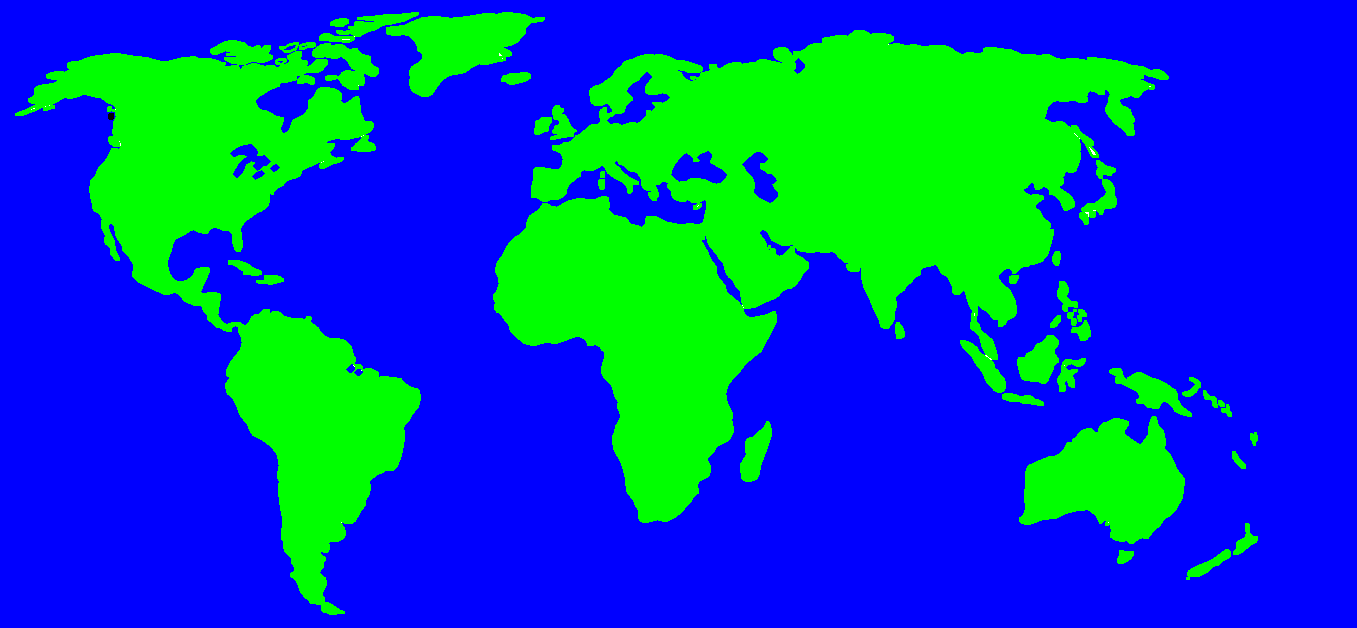
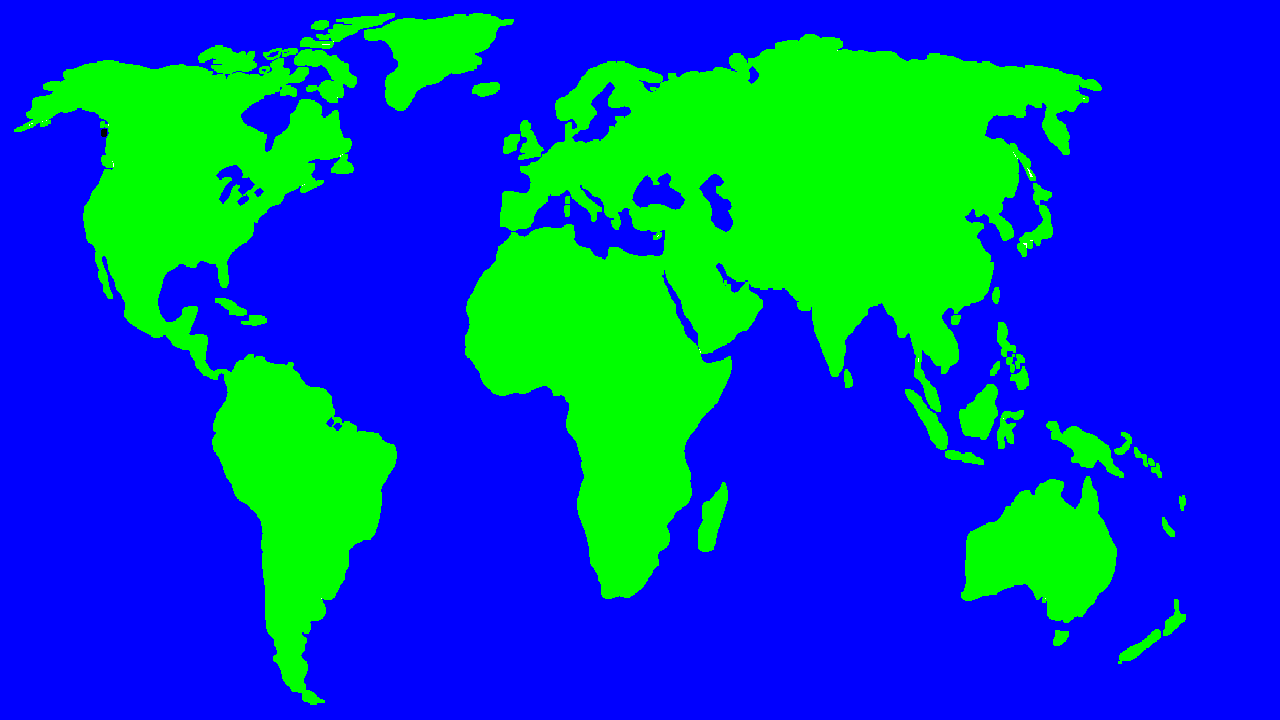
Drawable

diff --git a/Source/Application.cpp b/Source/Application.cpp
@@ -1,0 +1,57 @@
+#include "Application.h"
+
+Application::Application()
+:   m_window    ({WIDTH, HEIGHT}, "Empire")
+,   m_pixels    (WIDTH * HEIGHT)
+{
+    cellForEach([&](int x, int y)
+    {
+        auto& p     = m_pixels[getIndex(x, y)];
+        p.position  = {(float)x, (float)y};
+        p.color     = sf::Color::Red;
+    });
+}
+
+void Application::run()
+{
+    while (m_window.isOpen())
+    {
+        m_window.clear();
+
+        update();
+
+        m_world.draw(m_window);
+        //m_window.draw(m_pixels.data(), m_pixels.size(), sf::Points);
+
+        m_window.display();
+        pollEvents();
+        m_frameCount++;
+    }
+}
+
+int Application::getIndex(int x, int y)
+{
+    return y * WIDTH + x;
+}
+
+void Application::pollEvents()
+{
+    sf::Event e;
+    while (m_window.pollEvent(e))
+    {
+        if (e.type == sf::Event::Closed)
+        {
+            m_window.close();
+        }
+    }
+}
+
+void Application::setCellColour(int x, int y, sf::Uint8 colour)
+{
+
+}
+
+void Application::update()
+{
+
+}

diff --git a/Source/Application.h b/Source/Application.h
@@ -1,0 +1,47 @@
+#ifndef APPLICATION_H_INCLUDED
+#define APPLICATION_H_INCLUDED
+
+#include <SFML/Graphics.hpp>
+#include <vector>
+
+#include "World.h"
+
+constexpr unsigned WIDTH = 1280;
+constexpr unsigned HEIGHT = 720;
+
+class Application
+{
+    public:
+        Application();
+
+        void run();
+
+    private:
+        template<typename F>
+        void cellForEach(F f)
+        {
+            for (unsigned y = 0; y < HEIGHT; y++)
+            {
+                for (unsigned x = 0; x < WIDTH; x++)
+                {
+                    f(x, y);
+                }
+            }
+        }
+
+
+        int getIndex(int x, int y);
+
+        void pollEvents();
+        void setCellColour(int x, int y, sf::Uint8 colour);
+        void update();
+
+        sf::RenderWindow m_window;
+        std::vector<sf::Vertex> m_pixels;
+
+        World m_world;
+
+        int m_frameCount = 0;
+};
+
+#endif // APPLICATION_H_INCLUDED

diff --git a/Source/World.cpp b/Source/World.cpp
@@ -1,0 +1,21 @@
+#include "World.h"
+
+World::World()
+{
+    m_worldTexture.loadFromFile("res/world_map.png");
+    m_world.setTexture  (&m_worldTexture);
+    m_world.setSize     ({1280, 720});
+
+    m_worldImage.loadFromFile("res/world_map.png");
+    m_worldTexture.loadFromImage(m_worldImage);
+}
+
+void World::update()
+{
+
+}
+
+void World::draw(sf::RenderWindow& window)
+{
+    window.draw(m_world);
+}

diff --git a/Source/World.h b/Source/World.h
@@ -1,0 +1,20 @@
+#ifndef WORLD_H_INCLUDED
+#define WORLD_H_INCLUDED
+
+#include <SFML/Graphics.hpp>
+
+class World
+{
+    public:
+        World();
+
+        void update ();
+        void draw   (sf::RenderWindow& window);
+
+    private:
+        sf::RectangleShape  m_world;
+        sf::Texture         m_worldTexture;
+        sf::Image           m_worldImage;
+};
+
+#endif // WORLD_H_INCLUDED

diff --git a/Source/main.cpp b/Source/main.cpp
@@ -1,0 +1,7 @@
+#include "Application.h"
+
+int main()
+{
+    Application app;
+    app.run();
+}
